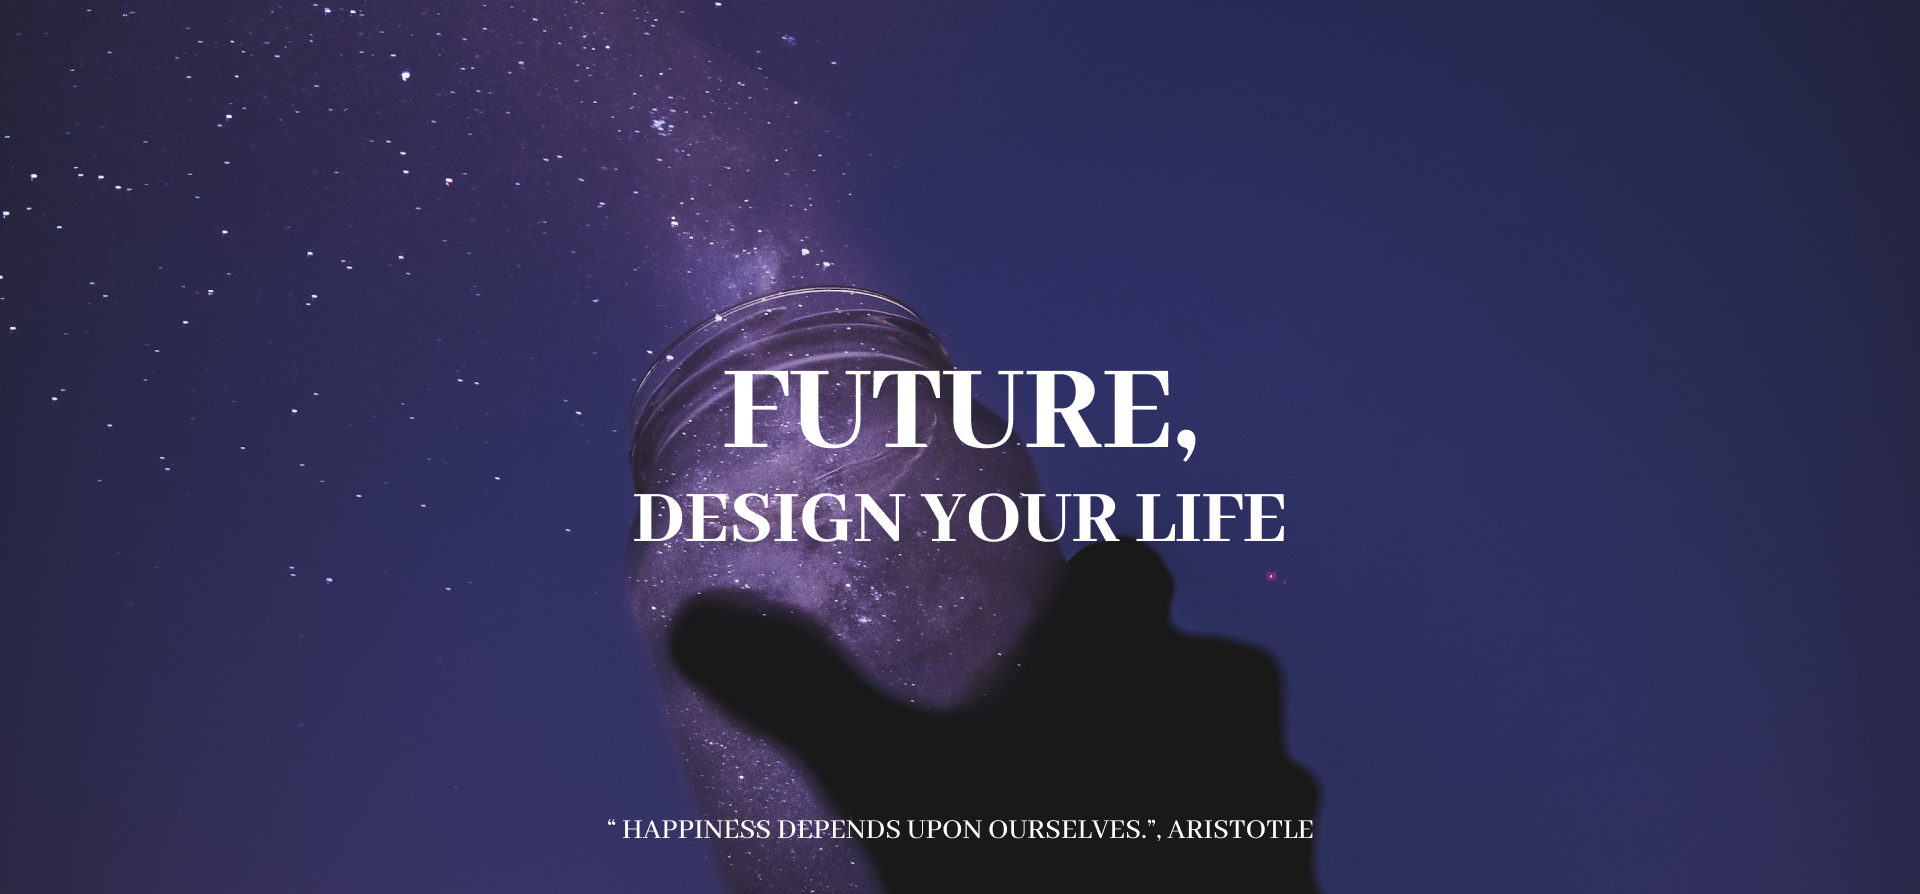
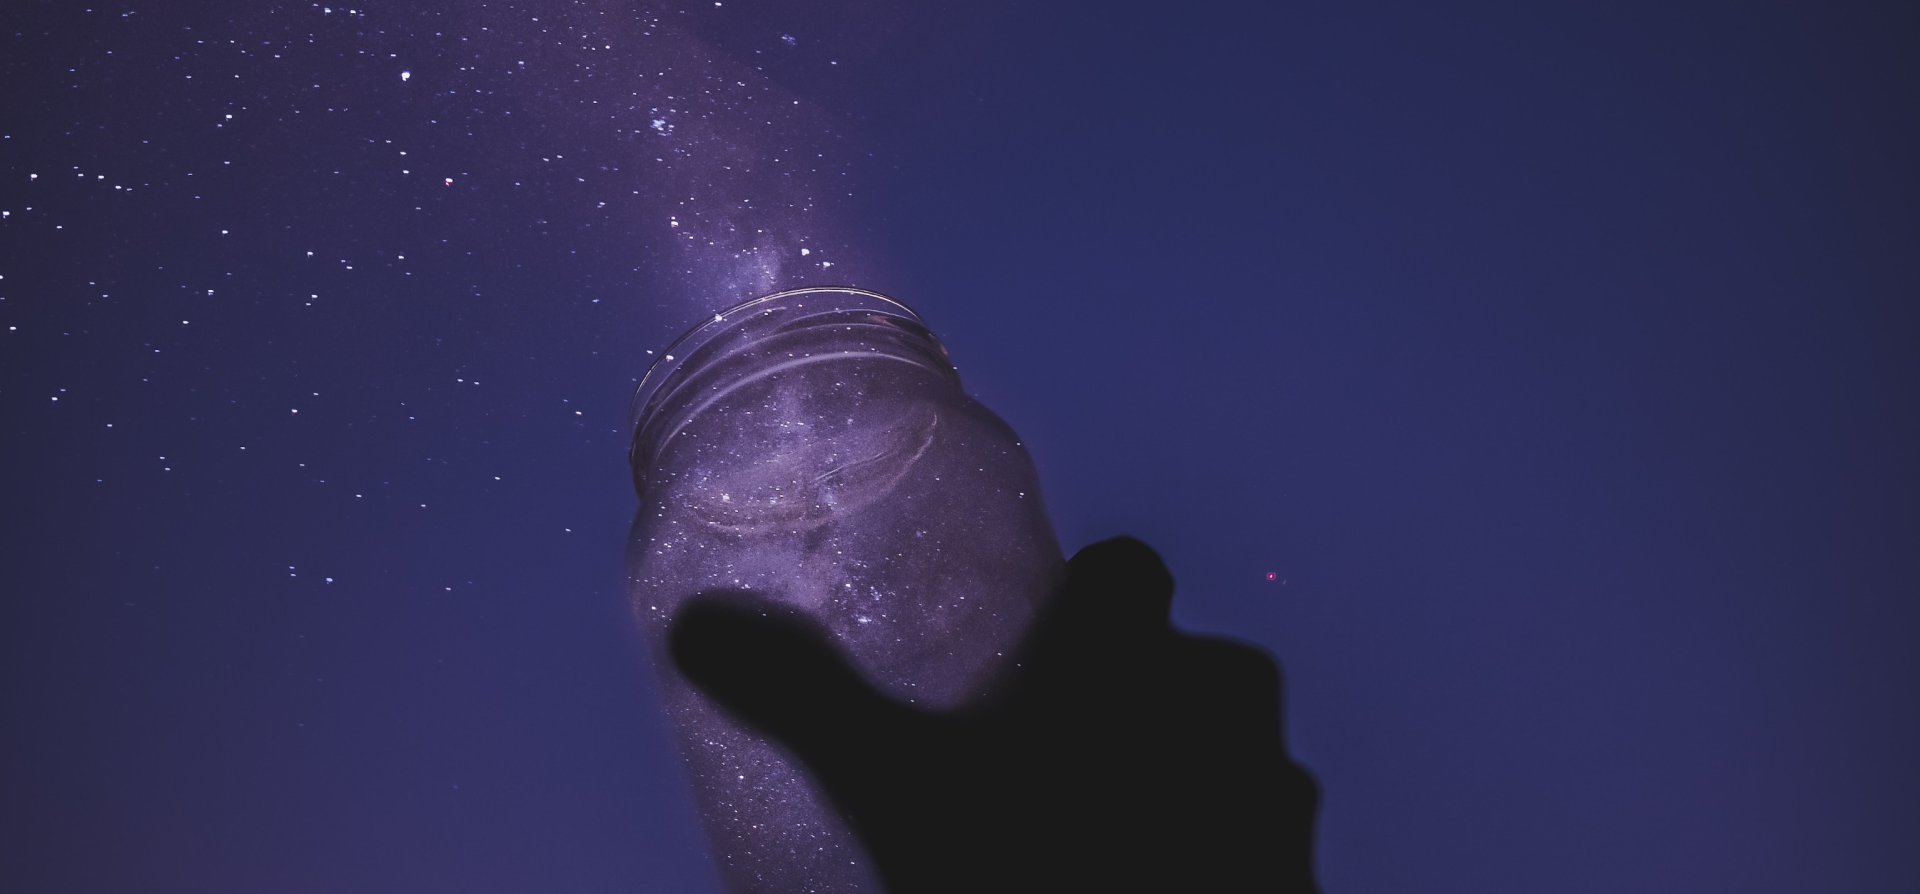
FEAT:메인페이지 완성
메인 페이지에 이미지와 글귀 넣기 완료했습니다.

Changed region(s): [[0.375, 0.3926, 0.625, 0.5134], [0.3125, 0.5436, 0.6875, 0.604], [0.3125, 0.906, 0.6875, 0.9362]]

diff --git a/life-map/src/App.css b/life-map/src/App.css
@@ -22,7 +22,10 @@
   justify-content: center;
   background-repeat: no-repeat;
 }
+
 .App-header {
+  position: absolute;
+  top: 130px;
   background-image: url(./img/메인.png);
   min-height: 894px;
   width: 1920px;
@@ -33,8 +36,43 @@
   background-repeat: no-repeat;
 }
 
+.App-header-title{
+  position: absolute;
+  width: 1038px;
+  height: 274px;
+  top: 338px;
+  left: 441px;
+  font-size: 130px;
+  text-align: center;
+  color:white;
+  font-weight: 800;
+  line-height: 153.36px;
+  font-family: var(--font-AbhayaLibre-ExtraBold);
+}
+
+.fontsize-80px{
+  font-size: 80px;
+  line-height: 94.38px;
+}
+
+.App-header-saying{
+  position: absolute;
+  width: 837px;
+  height: 43px;
+  top: 833px;
+  left: 542px;
+  font-size: 30px;
+  font-weight: 500;
+  line-height: 35px;
+  letter-spacing: 0em;
+  text-align: center;
+  font-family: var(--font-AbhayaLibre-Medium);
+  color: white;
+}
+
 .App-header2 {
-  background-image: url(./img/소개.png);
+  position: absolute;
+  top:130px;
   min-height: 480px;
   width: 1920px;
   display: flex;
@@ -44,8 +82,22 @@
   background-repeat: no-repeat;
 }
 
+.App-header2-introduce{
+  position: absolute;
+  width: 981px;
+  height: 167px;
+  top: 1050px;
+  left: 470px;
+  font-size: 40px;
+  font-weight: 600;
+  line-height: 47.19px;
+  letter-spacing: 0em;
+  text-align: center;
+  white-space: pre-line;
+  font-family: var(--font-KoPub-Dotum-Bold);
+}
+
 .App-header3 {
-  background-image: url(./img/질문메뉴소개.png);
   min-height: 894px;
   width: 1920px;
   display: flex;
@@ -53,10 +105,47 @@
   align-items: center;
   justify-content: center;
   background-repeat: no-repeat;
+}
+
+.App-header3-question-title{
+  position: absolute;
+  width: 186px;
+  height: 47px;
+  top: 1604px;
+  left: 346px;
+  font-size: 40px;
+  font-weight: 800;
+  line-height: 47px;
+  letter-spacing: 0em;
+  text-align: center;
+  font-family: var(--font-AbhayaLibre-ExtraBold);
+  color:#7000D8;
+}
+
+.App-header3-question-text{
+  position: absolute;
+  width: 431px;
+  height: 257px;
+  top: 1696px;
+  left: 346px;
+  font-size: 65px;
+  font-weight: 600;
+  line-height: 77px;
+  letter-spacing: 0em;
+  text-align: left;
+  white-space: pre-line;
+  font-family: var(--font-KoPub-Dotum-Bold);
+}
+
+.App-header3-question-image{
+  position: absolute;
+  width: 616px;
+  height: 824px;
+  top: 1604px;
+  left: 958px
 }
 
 .App-header4 {
-  background-image: url(./img/버킷리스트메뉴소개.png);
   min-height: 894px;
   width: 1920px;
   display: flex;
@@ -64,10 +153,47 @@
   align-items: center;
   justify-content: center;
   background-repeat: no-repeat;
+}
+
+.App-header4-bucketlist-image{
+  position: absolute;
+  width: 616px;
+  height: 824px;
+  top: 2694px;
+  left: 344px;
+}
+
+.App-header4-bucketlist-title{
+  position: absolute;
+  width: 227px;
+  height: 47px;
+  top: 2694px;
+  left: 1311px;
+  font-size: 40px;
+  font-weight: 800;
+  line-height: 47px;
+  letter-spacing: 0em;
+  text-align: center;
+  font-family: var(--font-AbhayaLibre-ExtraBold);
+  color:#7000D8;
+}
+
+.App-header4-bucketlist-text{
+  position: absolute;
+  width: 384px;
+  height: 167px;
+  top: 2786px;
+  left: 1154px;
+  font-size: 65px;
+  font-weight: 600;
+  line-height: 77px;
+  letter-spacing: 0em;
+  text-align: right;
+  white-space: pre-line;
+  font-family: var(--font-KoPub-Dotum-Bold);
 }
 
 .App-header5 {
-  background-image: url(./img/커뮤니티메뉴소개.png);
   min-height: 894px;
   width: 1920px;
   display: flex;
@@ -77,3 +203,40 @@
   background-repeat: no-repeat;
 }
 
+.App-header5-community-title{
+  position: absolute;
+  width: 223px;
+  height: 47px;
+  top: 3692px;
+  left: 346px;
+  font-size: 40px;
+  font-weight: 800;
+  line-height: 47px;
+  letter-spacing: 0em;
+  text-align: center;
+  font-family: var(--font-AbhayaLibre-ExtraBold);
+  color:#7000D8;
+}
+
+.App-header5-community-text{
+  position: absolute;
+  width: 372px;
+  height: 167px;
+  top: 3876px;
+  left: 346px;
+  font-size: 65px;
+  font-weight: 600;
+  line-height: 77px;
+  letter-spacing: 0em;
+  text-align: right;
+  white-space: pre-line;
+  font-family: var(--font-KoPub-Dotum-Bold);
+}
+
+.App-header5-community-image{
+  position: absolute;
+  width: 616px;
+  height: 824px;
+  top: 3692px;
+  left: 958px;
+}

diff --git a/life-map/src/Main.js b/life-map/src/Main.js
@@ -1,14 +1,60 @@
 import NavBar from './NavBar.js';
+import image from './img/이미지.png';
+import image1 from './img/이미지1.png';
+import image2 from './img/이미지2.png';
+import Footer from './pages/Footer.js';
 
 function main(){
     return (
         <div className="main">
             <NavBar/>
-            <div className="App-header"></div>
-            <div className="App-header2"></div>
-            <div className="App-header3"></div>
-            <div className="App-header4"></div>
-            <div className="App-header5"></div>
+            <div className="App-header">
+                <div className='App-header-title'>
+                FUTURE,
+                <div className='fontsize-80px'>DESIGN YOUR LIFE</div>
+                </div>
+                <div className='App-header-saying'>
+                “ HAPPINESS DEPENDS UPON OURSELVES.”, ARISTOTELES
+                </div>
+            </div>
+            <div className="App-header2">
+                <div className='App-header2-introduce'>
+                    버킷리스트를 작성하고 구체적인 계획을 세우며,<br/>
+                    이뤄나가기 위한 지속적인 동기부여를 받을 수 있습니다.<br/>
+                    라이프맵과 함께 꿈을 향해 나아가는 첫 걸음을 시작해보세요.
+                </div>
+            </div>
+            <div className="App-header3">
+                <div className='App-header3-question-title'>
+                    QUESTION
+                </div>
+                <div className='App-header3-question-text'>
+                    하루에 한 번,<br/>
+                    당신을 위한<br/>
+                    질문에 답하세요
+                </div>
+                <img className='App-header3-question-image' src={image} alt="질문이미지"/>
+            </div>
+            <div className="App-header4">
+                <img className='App-header4-bucketlist-image' src={image1} alt="버킷리스트이미지"/>
+                <div className='App-header4-bucketlist-title'>
+                    BUCKET LIST
+                </div>
+                <div className='App-header4-bucketlist-text'>
+                    하고 싶은 일을<br/>
+                    작성해보세요
+                </div>
+            </div>
+            <div className="App-header5">
+                <div className='App-header5-community-title'>
+                    COMMUNITY
+                </div>
+                <div className='App-header5-community-text'>
+                    당신의 목표를<br/>
+                    공유하세요
+                </div>
+                <img className='App-header5-community-image' src={image2} alt="커뮤니티이미지"/>
+            </div>
         </div>
     );
 }

diff --git a/life-map/src/App.js b/life-map/src/App.js
@@ -4,6 +4,7 @@ import Nav from './NavBar.js';
 import Main from './Main.js';
 import Question from './pages/Question.js';
 import SignUp from './SignUp.js';
+import SignIn from './SignIn.js';
 import Footer from './pages/Footer.js';
 import { BrowserRouter, Route, Routes} from "react-router-dom"
 
@@ -26,6 +27,7 @@ function App() {
           <Route path="/main" element={<Main/>}></Route>
           <Route path="/question" element={<Question/>}></Route>
           <Route path="/sign-up" element={<SignUp/>}></Route>
+          <Route path="/sign-in" element={<SignIn/>}></Route>
           </Routes>
         </div>
         <Footer />

diff --git a/life-map/src/index.css b/life-map/src/index.css
@@ -26,10 +26,18 @@ code {
 }
 
 @font-face {
+  font-family: "AbhayaLibre-Medium";
+  src: url(./fonts/AbhayaLibre-Medium.ttf);
+}
+
+@font-face {
     font-family: 'KoPub돋움체 Bold';
     src: url(./fonts/KoPub_Dotum_Bold.ttf);
 }
 
 :root {
 	--font-AbhayaLibre-ExtraBold: "AbhayaLibre-ExtraBold";
+  --font-AbhayaLibre-Medium: "AbhayaLibre-Medium";
+  --font-KoPub-Dotum-Bold: "KoPub돋움체 Bold";
 }
+

diff --git a/life-map/src/SignIn.js b/life-map/src/SignIn.js
@@ -1,0 +1,12 @@
+import NavBar from './NavBar.js';
+
+function SignIn(){
+    return (
+        <div className="SignIn">
+            <NavBar/>
+            <div className='Sign-bg'></div>
+        </div>
+    );
+}
+
+export default SignIn;

diff --git a/life-map/src/css/Footer.css b/life-map/src/css/Footer.css
@@ -1,5 +1,5 @@
 .Footer {
-    margin-top: 100px;
+    margin-top: 2024px;
     background: #333;
     width: 100%;
     height: 300px;
